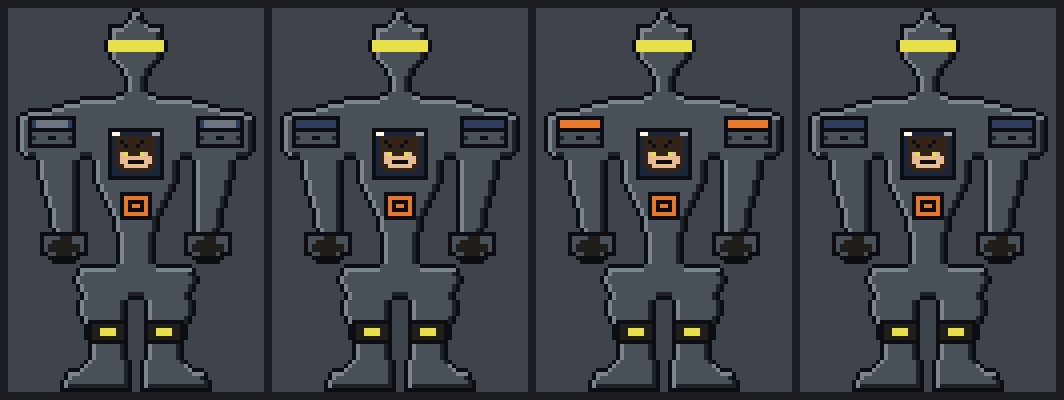
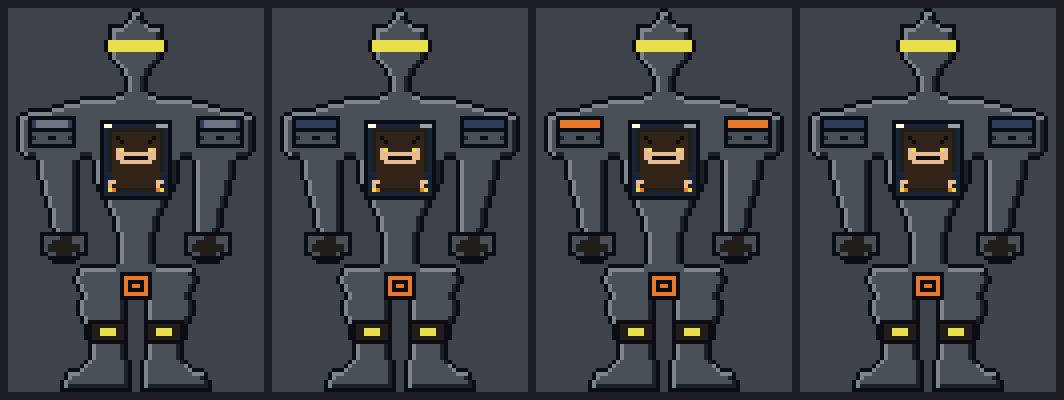
Make the dog SEATED IN the cockpit, operating the mech
The clarification was 'the kind sitting inside the mech operating it', and the
first version had only a head behind glass, which reads as a suit the dog is
wearing rather than a machine it is piloting. The cockpit is now 18x20 in the
chest and shows a pilot at work:

  rows 31-37  head, ears up
  rows 38-40  shoulders
  rows 41-42  body, seated upright
  rows 43-44  both forepaws reaching forward, gripping the control sticks
  rows 45-46  instrument panel, lit

Fur pixels went from 58 to 128. The detail that makes it read as an INTERIOR
rather than a window is the run of B down both sides of the canopy: that is the
seat's roll bar, and without it the dog looks pasted on the front of the chest.

The canopy closure assertion still passes unchanged, because it reads the patch's
own bounds rather than hard-coded coordinates. The insignia moved from the chest
to the hip, since the chest is now cockpit.

diff --git a/mech.py b/mech.py
@@ -178,20 +178,37 @@ def armour(sil) -> list[list[str]]:
 # ---------------------------------------------------------------------------
 # PATCHES: hand-authored detail, pasted at an offset. Irregular by nature.
 # ---------------------------------------------------------------------------
-COCKPIT = [                                    # 14 wide, pasted at (30, 25)
-    "KKKKKKKKKKKKKK",
-    "KWW22222222MMK",                          # glass glint, upper left
-    "K2HHHHHHHHHH2K",                          # the dog's head, behind glass
-    "K2HKHHHHKHHH2K",                          # ears
-    "K2HHKHHKHHHH2K",
-    "K2HHHHHHHHHH2K",
-    "K2HSVHHHVSHH2K",                          # eyes
-    "K2HSSSSSSSSH2K",                          # muzzle
-    "K2HSSKKKKSSH2K",                          # mouth
-    "K2HHSSSSSSHH2K",
-    "K22HHHHHHHH22K",
-    "K222222222222K",
-    "KKKKKKKKKKKKKK",
+# The cockpit. This is the whole point of the sprite, so it is the one part that
+# got the most hand work: 18x20, pasted into the chest at (28, 23).
+#
+# The dog is SEATED AND OPERATING, not just a head behind glass:
+#   rows  2-11  the dog's head, ears up, in a frame of cockpit interior
+#   rows 11-14  shoulders and body, seated upright
+#   rows 15-16  both forepaws reaching forward, gripping the control sticks
+#   rows 17-18  the instrument panel, lit
+# The `B` at the sides is the seat's roll bar, which is what makes it read as an
+# interior rather than a window.
+COCKPIT = [                                    # 18 wide, pasted at (28, 23)
+    "KKKKKKKKKKKKKKKKKK",
+    "KWW22222222222MMMK",                      # glass glint, upper left
+    "K2BBBBBBBBBBBBBB2K",                      # seat roll bar
+    "K2BHHHHHHHHHHHHB2K",                      # dog's head
+    "K2BHKHHHHHHHHKHB2K",                      # ear tips
+    "K2BHHKHHHHHHKHHB2K",                      # ears
+    "K2BHHHHHHHHHHHHB2K",
+    "K2BHSVHHHHHHVSHB2K",                      # eyes
+    "K2BHSSSSSSSSSSHB2K",                      # muzzle
+    "K2BHSSKKKKKKSSHB2K",                      # mouth
+    "K2BHHSSSSSSSSHHB2K",                      # chin
+    "K2BHHHHHHHHHHHHB2K",                      # neck
+    "K2BHHHHHHHHHHHHB2K",                      # shoulders
+    "K22HHHHHHHHHHHH22K",                      # body, seated
+    "K22HHHHHHHHHHHH22K",
+    "K2SSHHHHHHHHHHSS2K",                      # forepaws reaching forward
+    "K2SBHHHHHHHHHHSB2K",                      # gripping the sticks
+    "K2VYBBBBBBBBBBYV2K",                      # instrument panel, lit
+    "K2222222222222222K",
+    "KKKKKKKKKKKKKKKKKK",
 ]
 
 VISOR = [                                      # 16 wide, pasted at (8, 24)
@@ -253,7 +270,7 @@ KNEE_R = [                                     # 10 wide, pasted at (78, 34)
     "KKKKKKKKKK",
 ]
 
-INSIGNIA = [                                   # 8 wide, pasted at (46, 28)
+INSIGNIA = [                                   # 8 wide, pasted at (66, 28)
     "KKKKKKKK",
     "KYYYYYYK",
     "KYKKKKYK",
@@ -295,8 +312,8 @@ PATCHES = [
     (8, 24, VISOR),
     (27, 5, PAULDRON_L),
     (27, 47, PAULDRON_R),
-    (30, 25, COCKPIT),
-    (46, 28, INSIGNIA),
+    (28, 23, COCKPIT),
+    (66, 28, INSIGNIA),
     (56, 8, HAND),
     (56, 44, HAND_R),
     (78, 20, KNEE),
@@ -342,7 +359,8 @@ FRAMES = [
 ]
 
 FRAME_MS = 180
-SCALE = 4
+SCALE = 4          # preview sheet and GIF
+HERO_SCALE = 8     # single-frame hero, for actually looking at the detail
 BG = GAME_PALETTE["R"]
 
 
@@ -361,7 +379,8 @@ def main() -> None:
     sheet.save(out / "mech_preview.png")
 
     build(FRAMES[0], GAME_PALETTE).resize(
-        (W * 3, H * 3), Image.Resampling.NEAREST).save(out / "mech_hero.png")
+        (W * HERO_SCALE, H * HERO_SCALE), Image.Resampling.NEAREST).save(
+            out / "mech_hero.png")
 
     gif = [preview(im, SCALE, BG[:3]).convert("RGB").convert(
         "P", palette=Image.Palette.ADAPTIVE, colors=64) for im in images]

diff --git a/EVALUATION.md b/EVALUATION.md
@@ -1,57 +1,57 @@
 # Pipeline evaluation
 
-48 assets, 161,830 cells, 921 adjacent colour pairs adjudicated.
+48 assets, 161,830 cells, 957 adjacent colour pairs adjudicated.
 
 | asset | size | frames | tier | cells | keys | pairs | min margin | warnings | failures | check ms |
 |---|---|---|---|---|---|---|---|---|---|---|
-| `background.SKY` | 320x96 | 1 | L | 30720 | 6 | 11 | 0.01 | 2 | 0 | 57.1 |
-| `background.MID` | 320x64 | 1 | L | 20480 | 4 | 6 | 0.13 | 0 | 0 | 13.9 |
-| `background.FAR` | 320x56 | 1 | L | 17920 | 2 | 1 | 7.65 | 0 | 0 | 6.2 |
-| `background.STREET` | 320x40 | 1 | M | 12800 | 6 | 12 | 0.04 | 2 | 0 | 25.1 |
-| `zombie.death` | 22x32 | 5 | S | 3520 | 6 | 45 | 0.02 | 0 | 0 | 2.2 |
-| `player.walk` | 24x32 | 4 | S | 3072 | 12 | 100 | 0.02 | 8 | 0 | 3.0 |
-| `zombie.walk` | 22x32 | 4 | S | 2816 | 6 | 38 | 0.02 | 0 | 0 | 3.5 |
-| `player.shoot` | 24x32 | 3 | S | 2304 | 15 | 79 | 0.02 | 6 | 0 | 2.1 |
-| `player.idle` | 24x32 | 2 | S | 1536 | 12 | 50 | 0.02 | 4 | 0 | 1.7 |
-| `zombie.attack` | 22x32 | 2 | S | 1408 | 6 | 20 | 0.02 | 0 | 0 | 1.2 |
-| `effects.muzzle` | 16x12 | 4 | XS | 768 | 3 | 6 | 0.13 | 0 | 0 | 0.3 |
+| `background.SKY` | 320x96 | 1 | L | 30720 | 6 | 11 | 0.01 | 2 | 0 | 90.3 |
+| `background.MID` | 320x64 | 1 | L | 20480 | 4 | 6 | 0.13 | 0 | 0 | 28.4 |
+| `background.FAR` | 320x56 | 1 | L | 17920 | 2 | 1 | 7.65 | 0 | 0 | 9.0 |
+| `background.STREET` | 320x40 | 1 | M | 12800 | 6 | 12 | 0.04 | 2 | 0 | 52.3 |
+| `zombie.death` | 22x32 | 5 | S | 3520 | 6 | 45 | 0.02 | 0 | 0 | 3.8 |
+| `player.walk` | 24x32 | 4 | S | 3072 | 12 | 100 | 0.02 | 8 | 0 | 5.7 |
+| `zombie.walk` | 22x32 | 4 | S | 2816 | 6 | 38 | 0.02 | 0 | 0 | 6.8 |
+| `player.shoot` | 24x32 | 3 | S | 2304 | 15 | 79 | 0.02 | 6 | 0 | 3.9 |
+| `player.idle` | 24x32 | 2 | S | 1536 | 12 | 50 | 0.02 | 4 | 0 | 2.2 |
+| `zombie.attack` | 22x32 | 2 | S | 1408 | 6 | 20 | 0.02 | 0 | 0 | 3.3 |
+| `effects.muzzle` | 16x12 | 4 | XS | 768 | 3 | 6 | 0.13 | 0 | 0 | 0.4 |
 | `effects.impact` | 10x10 | 3 | XS | 300 | 3 | 3 | 0.13 | 0 | 0 | 0.2 |
 | `effects.DUST_FRAMES` | 12x8 | 3 | XS | 288 | 2 | 2 | 0.15 | 0 | 0 | 0.2 |
-| `effects.BLOOD_FRAMES` | 8x8 | 3 | XS | 224 | 3 | 6 | 0.24 | 3 | 0 | 0.2 |
+| `effects.BLOOD_FRAMES` | 8x8 | 3 | XS | 224 | 3 | 6 | 0.24 | 3 | 0 | 0.3 |
 | `effects.BLOODPOOL` | 20x8 | 1 | XS | 160 | 3 | 2 | 0.24 | 1 | 0 | 0.2 |
 | `effects.BULLET_FRAMES` | 10x4 | 2 | XS | 80 | 3 | 4 | 0.13 | 0 | 0 | 0.1 |
-| `player.GUN_DOWN` | 4x11 | 1 | XS | 44 | 4 | 6 | 0.44 | 1 | 0 | 0.1 |
+| `player.GUN_DOWN` | 4x11 | 1 | XS | 44 | 4 | 6 | 0.44 | 1 | 0 | 0.2 |
 | `effects.CASING_FRAMES` | 5x4 | 2 | XS | 40 | 3 | 6 | 5.53 | 0 | 0 | 0.1 |
-| `effects.gib` | 4x4 | 3 | XS | 34 | 3 | 7 | 0.24 | 3 | 0 | 0.1 |
+| `effects.gib` | 4x4 | 3 | XS | 34 | 3 | 7 | 0.24 | 3 | 0 | 0.2 |
 | `player.GUN_SIDE` | 8x4 | 1 | XS | 32 | 4 | 6 | 0.44 | 1 | 0 | 0.1 |
-| `mech.FRAMES` | 64x96 | 4 | L | 24576 | 14 | 113 | 0.15 | 4 | 0 | 22.4 |
-| `render_sky.BACKDROP` | 160x58 | 1 | M | 9280 | 8 | 14 | 0.15 | 1 | 0 | 17.1 |
-| `sky.BACKDROP` | 160x58 | 1 | M | 9280 | 8 | 14 | 0.15 | 1 | 0 | 19.4 |
-| `ground.GROUND` | 160x40 | 1 | M | 6400 | 9 | 23 | 0.09 | 0 | 0 | 12.8 |
-| `walk_cycle.FRAMES` | 16x32 | 4 | S | 2048 | 13 | 92 | 0.02 | 4 | 0 | 3.3 |
-| `mechdog.FRAMES` | 24x18 | 4 | S | 1728 | 7 | 44 | 0.17 | 4 | 0 | 2.0 |
-| `props.HOUSE` | 46x34 | 1 | S | 1564 | 10 | 18 | 0.07 | 1 | 0 | 1.6 |
-| `dog.DOG_FRAMES` | 20x14 | 4 | S | 1120 | 4 | 20 | 0.44 | 0 | 0 | 1.1 |
-| `props.tree` | 28x40 | 1 | S | 1120 | 6 | 8 | 0.01 | 1 | 0 | 1.1 |
-| `render_sky.CLOUD_STRIP` | 64x12 | 1 | XS | 768 | 2 | 1 | 0.57 | 0 | 0 | 0.3 |
-| `sky.CLOUD_STRIP` | 64x12 | 1 | XS | 768 | 2 | 1 | 0.57 | 0 | 0 | 0.3 |
-| `render_sprite.SPRITE` | 16x32 | 1 | XS | 512 | 13 | 23 | 0.02 | 1 | 0 | 0.7 |
-| `yardprops.wagon` | 28x18 | 1 | XS | 504 | 6 | 10 | 0.14 | 0 | 0 | 0.6 |
-| `foliage.CHICKEN` | 12x10 | 4 | XS | 480 | 6 | 32 | 0.31 | 4 | 0 | 0.6 |
-| `props.FENCE` | 32x14 | 1 | XS | 448 | 3 | 3 | 0.14 | 0 | 0 | 0.6 |
-| `yardprops.well` | 20x22 | 1 | XS | 440 | 9 | 14 | 0.14 | 1 | 0 | 0.9 |
-| `yardprops.HAYSTACK` | 24x18 | 1 | XS | 432 | 6 | 12 | 0.09 | 1 | 0 | 1.0 |
-| `yardprops.scarecrow` | 14x30 | 1 | XS | 420 | 8 | 13 | 0.14 | 2 | 0 | 0.6 |
-| `foliage.BUSH` | 18x14 | 1 | XS | 252 | 4 | 3 | 0.32 | 0 | 0 | 0.3 |
-| `farmprops.signpost` | 8x20 | 1 | XS | 160 | 3 | 3 | 0.14 | 0 | 0 | 0.2 |
-| `farmprops.logpile` | 16x10 | 1 | XS | 160 | 5 | 8 | 0.14 | 1 | 0 | 0.3 |
-| `farmprops.BARREL` | 10x14 | 1 | XS | 140 | 5 | 9 | 0.14 | 0 | 0 | 0.3 |
-| `props.rock` | 14x10 | 1 | XS | 140 | 3 | 3 | 0.15 | 0 | 0 | 0.2 |
-| `farmprops.CRATE` | 12x11 | 1 | XS | 132 | 3 | 3 | 0.14 | 0 | 0 | 0.2 |
-| `foliage.FLOWERPATCH` | 16x8 | 1 | XS | 128 | 5 | 4 | 0.42 | 0 | 0 | 0.1 |
-| `farmprops.stump` | 12x9 | 1 | XS | 108 | 6 | 10 | 0.00 | 1 | 0 | 0.2 |
+| `mech.FRAMES` | 64x96 | 4 | L | 24576 | 14 | 149 | 0.15 | 12 | 0 | 30.0 |
+| `render_sky.BACKDROP` | 160x58 | 1 | M | 9280 | 8 | 14 | 0.15 | 1 | 0 | 30.4 |
+| `sky.BACKDROP` | 160x58 | 1 | M | 9280 | 8 | 14 | 0.15 | 1 | 0 | 38.8 |
+| `ground.GROUND` | 160x40 | 1 | M | 6400 | 9 | 23 | 0.09 | 0 | 0 | 16.3 |
+| `walk_cycle.FRAMES` | 16x32 | 4 | S | 2048 | 13 | 92 | 0.02 | 4 | 0 | 5.9 |
+| `mechdog.FRAMES` | 24x18 | 4 | S | 1728 | 7 | 44 | 0.17 | 4 | 0 | 2.6 |
+| `props.HOUSE` | 46x34 | 1 | S | 1564 | 10 | 18 | 0.07 | 1 | 0 | 2.2 |
+| `dog.DOG_FRAMES` | 20x14 | 4 | S | 1120 | 4 | 20 | 0.44 | 0 | 0 | 2.2 |
+| `props.tree` | 28x40 | 1 | S | 1120 | 6 | 8 | 0.01 | 1 | 0 | 1.4 |
+| `render_sky.CLOUD_STRIP` | 64x12 | 1 | XS | 768 | 2 | 1 | 0.57 | 0 | 0 | 0.4 |
+| `sky.CLOUD_STRIP` | 64x12 | 1 | XS | 768 | 2 | 1 | 0.57 | 0 | 0 | 0.8 |
+| `render_sprite.SPRITE` | 16x32 | 1 | XS | 512 | 13 | 23 | 0.02 | 1 | 0 | 1.0 |
+| `yardprops.wagon` | 28x18 | 1 | XS | 504 | 6 | 10 | 0.14 | 0 | 0 | 0.8 |
+| `foliage.CHICKEN` | 12x10 | 4 | XS | 480 | 6 | 32 | 0.31 | 4 | 0 | 0.9 |
+| `props.FENCE` | 32x14 | 1 | XS | 448 | 3 | 3 | 0.14 | 0 | 0 | 0.8 |
+| `yardprops.well` | 20x22 | 1 | XS | 440 | 9 | 14 | 0.14 | 1 | 0 | 0.8 |
+| `yardprops.HAYSTACK` | 24x18 | 1 | XS | 432 | 6 | 12 | 0.09 | 1 | 0 | 0.8 |
+| `yardprops.scarecrow` | 14x30 | 1 | XS | 420 | 8 | 13 | 0.14 | 2 | 0 | 0.7 |
+| `foliage.BUSH` | 18x14 | 1 | XS | 252 | 4 | 3 | 0.32 | 0 | 0 | 0.4 |
+| `farmprops.signpost` | 8x20 | 1 | XS | 160 | 3 | 3 | 0.14 | 0 | 0 | 0.3 |
+| `farmprops.logpile` | 16x10 | 1 | XS | 160 | 5 | 8 | 0.14 | 1 | 0 | 0.4 |
+| `farmprops.BARREL` | 10x14 | 1 | XS | 140 | 5 | 9 | 0.14 | 0 | 0 | 0.8 |
+| `props.rock` | 14x10 | 1 | XS | 140 | 3 | 3 | 0.15 | 0 | 0 | 0.3 |
+| `farmprops.CRATE` | 12x11 | 1 | XS | 132 | 3 | 3 | 0.14 | 0 | 0 | 0.5 |
+| `foliage.FLOWERPATCH` | 16x8 | 1 | XS | 128 | 5 | 4 | 0.42 | 0 | 0 | 0.2 |
+| `farmprops.stump` | 12x9 | 1 | XS | 108 | 6 | 10 | 0.00 | 1 | 0 | 0.3 |
 | `farmprops.milkchurn` | 8x12 | 1 | XS | 96 | 4 | 5 | 0.15 | 0 | 0 | 0.2 |
-| `foliage.MUSHROOMS` | 10x8 | 1 | XS | 80 | 5 | 8 | 0.18 | 1 | 0 | 0.1 |
+| `foliage.MUSHROOMS` | 10x8 | 1 | XS | 80 | 5 | 8 | 0.18 | 1 | 0 | 0.2 |
 
 ## Iteration
 
@@ -59,23 +59,23 @@ Attempts-to-green is consecutive failures before a check's most recent success, 
 
 | script | attempts to green | total runs | failures |
 |---|---|---|---|
-| `check_sprite.py` | 1 | 13 | 0 |
-| `check_scene.py` | 1 | 13 | 0 |
-| `check_dog.py` | 1 | 13 | 0 |
-| `check_farmprops.py` | 1 | 13 | 0 |
-| `check_foliage.py` | 1 | 13 | 0 |
-| `check_game.py` | 1 | 13 | 0 |
-| `check_ground.py` | 1 | 13 | 0 |
-| `check_props.py` | 1 | 13 | 0 |
-| `check_sky.py` | 1 | 13 | 0 |
-| `check_thresholds.py` | 1 | 13 | 0 |
-| `check_yardprops.py` | 1 | 13 | 0 |
-| `game/check_background.py` | 1 | 13 | 0 |
-| `game/check_effects.py` | 1 | 13 | 0 |
-| `game/check_player.py` | 1 | 13 | 0 |
-| `game/check_zombie.py` | 1 | 13 | 0 |
-| `check_mechdog.py` | 1 | 9 | 0 |
-| `check_mech.py` | 1 | 3 | 0 |
+| `check_sprite.py` | 1 | 15 | 0 |
+| `check_scene.py` | 1 | 15 | 0 |
+| `check_dog.py` | 1 | 15 | 0 |
+| `check_farmprops.py` | 1 | 15 | 0 |
+| `check_foliage.py` | 1 | 15 | 0 |
+| `check_game.py` | 1 | 15 | 0 |
+| `check_ground.py` | 1 | 15 | 0 |
+| `check_props.py` | 1 | 15 | 0 |
+| `check_sky.py` | 1 | 15 | 0 |
+| `check_thresholds.py` | 1 | 15 | 0 |
+| `check_yardprops.py` | 1 | 15 | 0 |
+| `game/check_background.py` | 1 | 15 | 0 |
+| `game/check_effects.py` | 1 | 15 | 0 |
+| `game/check_player.py` | 1 | 15 | 0 |
+| `game/check_zombie.py` | 1 | 15 | 0 |
+| `check_mechdog.py` | 1 | 11 | 0 |
+| `check_mech.py` | 1 | 5 | 0 |
 
 ## What these numbers are not
 
